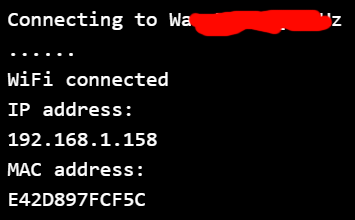
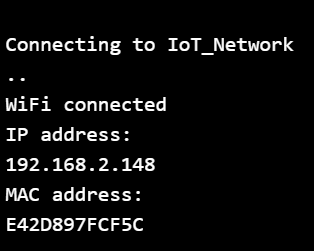
Adding more content.

diff --git a/04_WiFi/src/Main.cpp b/04_WiFi/src/Main.cpp
@@ -3,12 +3,14 @@
  */
 
 #include <Arduino.h>
+// reference the ESP WiFi headers
 #include <ESP8266WiFi.h>
 
 #define STATUS_LED 13
 
-const char* ssid     = "(network ssid here)";
-const char* password = "(network password here)";
+// update with you network SSID and password
+const char* ssid     = "IoT_Network";
+const char* password = "IoT_Password";
 
 void connectToNetwork() {
   Serial.println();
@@ -30,23 +32,21 @@ void connectToNetwork() {
 
 void setup()
 {
-  // Connect the serial port port.
+  // connect the serial port
   Serial.begin(115200);
-  delay(50);
 
-  // initialize LED digital pin as an output.
   pinMode(STATUS_LED, OUTPUT);
-  // the LED will signal if we're connected to WiFi
+  // LED off - will indicate we're not connected to WiFi yet
   digitalWrite(STATUS_LED, LOW);
 
   connectToNetwork();
 
-  // the LED will indicate that we're connected
+  // LED on - will indicate that we're connected
   digitalWrite(STATUS_LED, HIGH);
 
   // print the IP address
-  Serial.println("IP address: ");
   IPAddress ip = WiFi.localIP();
+  Serial.println("IP address: ");
   Serial.println(ip);
 
   // print the MAC address
@@ -54,12 +54,12 @@ void setup()
   WiFi.macAddress(mac);
   Serial.println("MAC address: ");
   for (int i = 5; i >= 0; i--)
-  {
     Serial.print(mac[i], HEX);
-  }
+
   Serial.println("");
 }
 
 void loop()
 {
+  delay(50);
 }

diff --git a/01_blink/src/Main.cpp b/01_blink/src/Main.cpp
@@ -4,12 +4,21 @@
  * then off for one second, repeatedly.
  */
 
+// reference the arduino framework
 #include <Arduino.h>
 
+// the LED's GPIO pin number
 #define LED 13
 
 void setup()
 {
+  // initialize serial communication
+  Serial.begin(115200);
+
+  Serial.println("");
+  Serial.println("Hello World!");
+  Serial.println("");
+
   // initialize LED digital pin as an output.
   pinMode(LED, OUTPUT);
 }

diff --git a/README.md b/README.md
@@ -1,6 +1,11 @@
 ## Intro
 
-Workshop materials for the IoT hand-on training. The training is based on the ESP8266 chip and Arduino framework. It was first done at the [TWF 2016 Conference](http://twf.community). If any questions please email me.
+Workshop materials for the IoT hand-on training. The training is based on the [ESP8266](http://espressif.com/en/products/hardware/esp8266ex/overview) chip and [Arduino](https://github.com/esp8266/Arduino) framework.
+The training was first done at the [TWF 2016 Conference](http://twf.community).
+
+The idea behind the workshop is to have a step-by-step tutorial on building *Internet of Things (IoT)* solutions. The initial exercses are simple and evolve over time.
+
+If any questions please email me.
 
 ## Resources
 
@@ -54,11 +59,32 @@ TBD
 1. This material is provided as is.
 2. The author is not responsible for any damage this might cause ;-)
 
+## Essentials
+
+### Boot Modes
+Whenever the ESP is reset or powered on it checks the state of three GPIO pins to enters one of the boot modes:
+
+GPIO15|GPIO0|GPIO2|Mode
+------|-----|-----|----
+    0V|   0V| 3.3V|UART Bootloader
+    0V| 3.3V| 3.3V|Boot sketch
+  3.3V|    x|    x|SDIO mode (not used for Arduino)
+
+The *UART Bootloader* mode is used to upload our program.
+The *Boot sketch* mode is used to execute our program (normal mode).
+
+At startup ESP prints out the current boot mode:
+```
+rst cause:2, boot mode:(3,6)
+```
+
+More details is provided on the [ESP Arduino wiki](https://github.com/esp8266/Arduino/blob/master/doc/boards.md#boot-messages-and-modes).
+
 ## Instructions
 
 ### 01_Blink
 
-This is a traditional *Hello World* sample for the *ESP8266* board and *Arduino* framework. The sample turns on/off a LED using a GPIO pin.
+This is a traditional *Hello World* sample for the *ESP8266* board and *Arduino* framework. The sample turns on/off a LED using a GPIO pin and prints the famous `Hello World!`.
 
 #### Objectives
 * Learn to use PlatformIO.
@@ -87,12 +113,21 @@ The sample program will blink a LED. The LED's anode (shorter leg) is connected 
 The structure of the project files comes from the [Platform IO](http://platformio.org/). The underlying programming language is C++. The most interesting part of the sample is located in the main program file `src\Main.cpp`:
 
 ```cpp
+// reference the arduino framework
 #include <Arduino.h>
 
+// the LED's GPIO pin number
 #define LED 13
 
 void setup()
 {
+  // initialize serial communication
+  Serial.begin(115200);
+
+  Serial.println("");
+  Serial.println("Hello World!");
+  Serial.println("");
+
   // initialize LED digital pin as an output.
   pinMode(LED, OUTPUT);
 }
@@ -117,12 +152,30 @@ Any program should have exactly one `setup()` and `loop()` functions defined. Th
 
 The `#include <Arduino.h>` brings in all the Arduino framework functions.
 
+The `Serial` enables us to send (and recieve) some characters into the `Serial Monitor`. This is useful to output diagnostic information to debug our program.
+
+Lets run the program:
+* Compile using PlatformIO
+* Put the ESP into *UART Boatloader* mode
+	* Set `GPIO0` to *PullDown*
+	* Press `RESET` button briefly
+* Upload program using PlatformIO
+* Open `Serial Monitor` in PlatformIO
+* Set `GPIO0` to loose (or *PullUp*)
+* Press `RESET` button briefly
+
+When all is successful the LED will blink and the output from the *Serial Monitor* will have the `Hello World!` line:
+
+![Montior output for 01_Blink sample](assets/01_blink_monitor.png "Montior output for 01_Blink sample")
+
 #### Arduino Reference
 * [`pinMode(pin, mode)`](https://www.arduino.cc/en/Reference/PinMode)
 * [`digitalWrite(pin, value)`](https://www.arduino.cc/en/Reference/DigitalWrite)
 * [`delay(ms)`](https://www.arduino.cc/en/Reference/Delay)
 * [`setup()`](https://www.arduino.cc/en/Reference/Setup)
 * [`loop()`](https://www.arduino.cc/en/Reference/Loop)
+* [`Serial.begin()`](https://www.arduino.cc/en/Serial/Begin)
+* [`Serial.print()`](https://www.arduino.cc/en/Serial/Print)
 
 #### Exercise
 
@@ -159,12 +212,14 @@ Here is the program:
 
 ```cpp
 #include <Arduino.h>
+// reference the ESP WiFi headers
 #include <ESP8266WiFi.h>
 
 #define STATUS_LED 13
 
-const char* ssid     = "(network ssid here)";
-const char* password = "(network password here)";
+// update with you network SSID and password
+const char* ssid     = "IoT_Network";
+const char* password = "IoT_Password";
 
 void connectToNetwork() {
   Serial.println();
@@ -186,23 +241,21 @@ void connectToNetwork() {
 
 void setup()
 {
-  // Connect the serial port port.
+  // connect the serial port
   Serial.begin(115200);
-  delay(50);
 
-  // initialize LED digital pin as an output.
   pinMode(STATUS_LED, OUTPUT);
-  // the LED will signal if we're connected to WiFi
+  // LED off - will indicate we're not connected to WiFi yet
   digitalWrite(STATUS_LED, LOW);
 
   connectToNetwork();
 
-  // the LED will indicate that we're connected
+  // LED on - will indicate that we're connected
   digitalWrite(STATUS_LED, HIGH);
 
   // print the IP address
-  Serial.println("IP address: ");
   IPAddress ip = WiFi.localIP();
+  Serial.println("IP address: ");
   Serial.println(ip);
 
   // print the MAC address
@@ -210,18 +263,18 @@ void setup()
   WiFi.macAddress(mac);
   Serial.println("MAC address: ");
   for (int i = 5; i >= 0; i--)
-  {
     Serial.print(mac[i], HEX);
-  }
+
   Serial.println("");
 }
 
 void loop()
 {
+	delay(50);
 }
 ```
 
-When the program runs the Serial Monitor outputs:
+When the program runs the *Serial Monitor* outputs:
 
 ![Serial Monitor Output](assets/04_wifi_serial_monitor.png "Serial Monitor Output")
 
@@ -232,5 +285,43 @@ When the program runs the Serial Monitor outputs:
 * [`WiFi.macAddress()`](https://www.arduino.cc/en/Reference/WiFiMACAddress)
 
 #### Worth reading at home
-* [`WiFi Library (Arduino)`](https://www.arduino.cc/en/Reference/WiFi)
-* [`ESP Arduino Examples on GitHub`](https://github.com/esp8266/Arduino/tree/master/libraries/ESP8266WiFi/examples)
+* [WiFi Library (Arduino)](https://www.arduino.cc/en/Reference/WiFi)
+* [ESP Arduino Examples on GitHub](https://github.com/esp8266/Arduino/tree/master/libraries/ESP8266WiFi/examples)
+* [Serial Reference](https://www.arduino.cc/en/Reference/Serial)
+
+### TODO Next example
+
+TODO
+
+## Extras
+
+### Exeptions
+
+Sometime the program causes runtime errors that cause the chip to reboot and enter invalid state. ESP provides some diagnostic information when an error happens:
+
+```
+Exception (28):
+epc1=0x40221a46 epc2=0x00000000 epc3=0x00000000 excvaddr=0x00000000 depc=0x00000000
+
+ctx: sys
+sp: 3ffff850 end: 3fffffb0 offset: 01a0
+
+>>>stack>>>
+3ffff9f0:  00000001 00000004 3ffe99b4 00000002
+...
+3fffffa0:  400201e9 efac3ebe ffffff01 55aa55aa
+<<<stack<<<
+```
+
+See the list of exceptions [Exception Causes (EXCCAUSE)](https://github.com/esp8266/Arduino/blob/master/doc/exception_causes.md)
+
+### Upgrading ESP to newer Espressif SDK
+
+To upgrade your ESP8266 with the latest firmware, you need:
+1. The [Flash Download Tool](ESP Flash Download Tool
+http://www.espressif.com/en/support/download/other-tools)
+2. The [official SDK](http://espressif.com/en/support/download/sdks-demos) from Espressif.
+
+Typically you will need the *NONOS* SDK. For example `ESP8266 NONOS SDK V1.5.4`.
+
+There is a really [great article](http://www.allaboutcircuits.com/projects/update-the-firmware-in-your-esp8266-wi-fi-module/) on the upgrade procedure.
